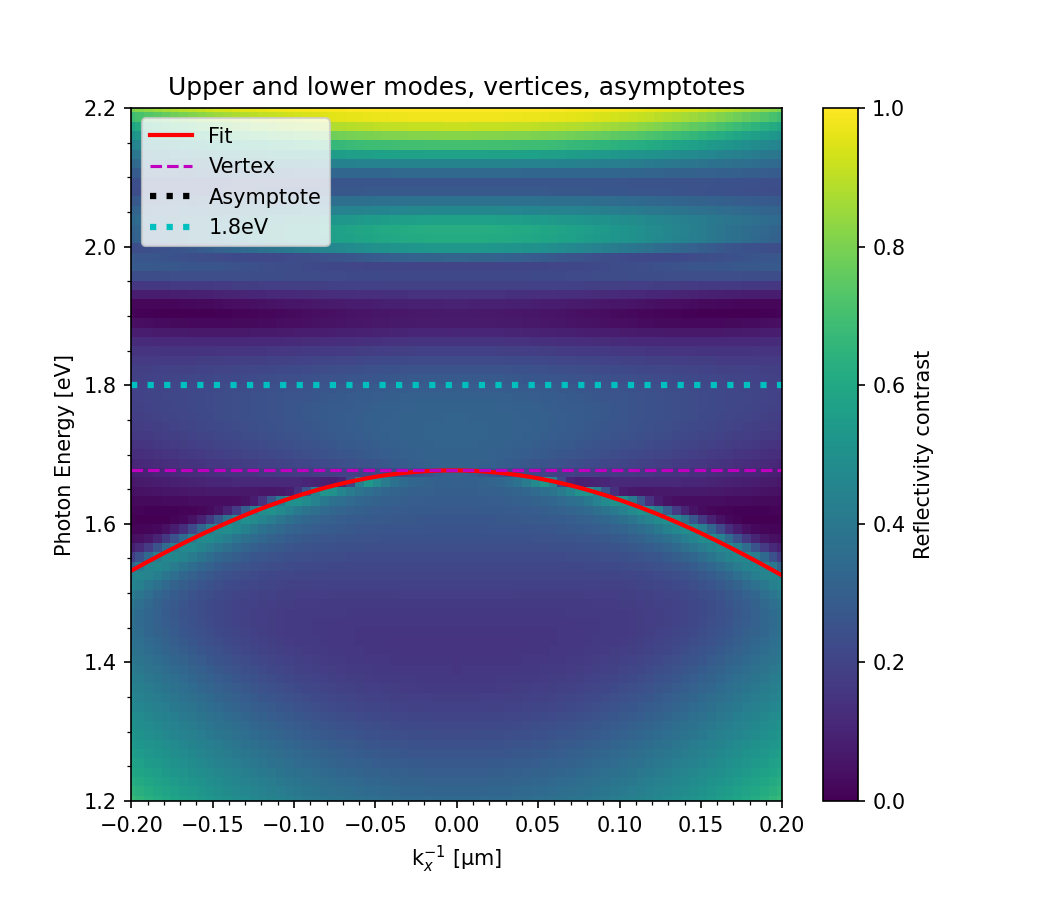
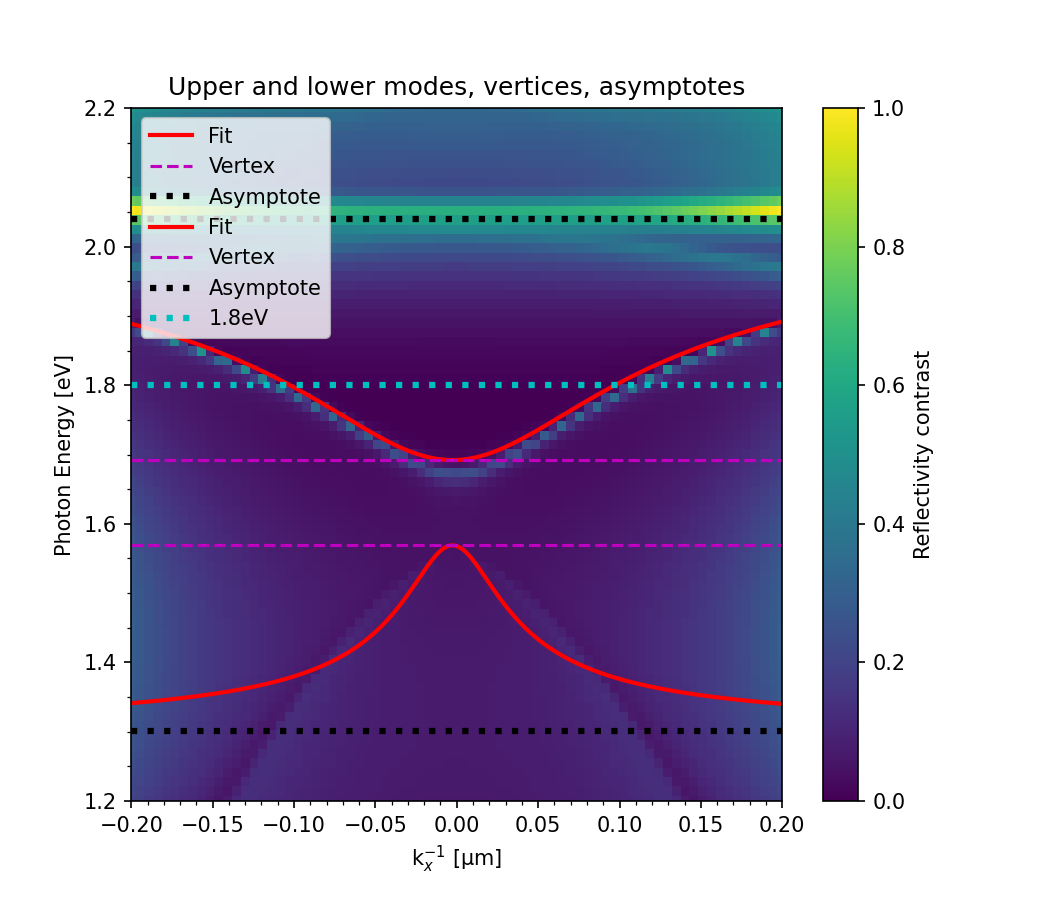
Mode detection - 19/11

diff --git a/mode_detection.py b/mode_detection.py
@@ -23,7 +23,7 @@ N=75
 
 cwd = Path(os.getcwd())
 
-results_top_dir = cwd / "WS2_Grating_Eamonn" / "Results" / 'WS₂, SiO₂, Si 4'
+results_top_dir = cwd / "WS2_Grating_Eamonn" / "Results" / 'WS₂, SiO₂, Si'
 
 # results_dir = cwd / "WS2_Grating_Eamonn" / "Results" / 'WS₂, SiO₂, Si' / 't=18.0nm Λ=500nm FF=0.84 N=75' / 'data'
 # results_dir = cwd / "WS2_Grating_Eamonn" / "Results" / 'WS₂, SiO₂, Si 4' / 't=60.0nm Λ=350nm FF=0.55 N=75' / 'data'
@@ -37,15 +37,17 @@ savepath.mkdir(exist_ok=True, parents=True)
 
 
 sims = sorted(os.listdir(results_top_dir))
-
-sims.remove('summary.json')
+if 'summary.json' in sims:
+    sims.remove('summary.json')
 print(len(sims))
 
-sims = [Path(cwd / "WS2_Grating_Eamonn" / "Results" / 'WS₂, SiO₂, Si' / 't=18.0nm Λ=500nm FF=0.84 N=75')]
+# sims = [Path(cwd / "WS2_Grating_Eamonn" / "Results" / 'WS₂, SiO₂, Si 4' / 't=20.0nm Λ=550nm FF=0.55 N=75')]
 
 def fit_simulation(results_dir):
-
-    files = sorted(os.listdir(results_dir))
+    try:
+        files = sorted(os.listdir(results_dir))
+    except:
+        return 0
     file_R = results_dir / files[4]
     file_R_sub = results_dir / files[5]
     print(file_R)
@@ -81,7 +83,7 @@ def fit_simulation(results_dir):
     # cbar =fig.colorbar(pcm,location='right')
     # cbar.set_label('Reflectivity contrast')
     # plt.minorticks_on()
-
+    # plt.show()
 
 
 
@@ -136,8 +138,13 @@ def fit_simulation(results_dir):
         # Create a mask to exclude pixels within 5% of the central position
         mask = (np.arange(N) < central_position - exclude_range) | (np.arange(N) > central_position + exclude_range)
 
-        # Apply the mask to the row
-        filtered_row = row[mask]
+        try:
+            # Apply the mask to the row
+            filtered_row = row[mask]
+        except IndexError:
+            print("WRONG N - DEBUG")
+            time.sleep(5)
+            return 0
 
         # Compute the value for this row and append to the result
         if len(filtered_row) > 0:  # Make sure there are still data points after masking
@@ -153,12 +160,13 @@ def fit_simulation(results_dir):
     pd_line_y_max = pd.Series(line_y_max)
 
     # Apply a 3-point moving average to smooth the data
-    pd_line_y_max_plottinged = pd_line_y_max.rolling(window=6, center=True).mean()
+    series_ymax_mavg = pd_line_y_max.rolling(window=6, center=True).mean()
 
 
     # Use the Series index as x values
-    y = pd_line_y_max_plottinged
-    x = pd_line_y_max_plottinged.index
+    y = series_ymax_mavg
+    x = series_ymax_mavg.index
+    y = y.fillna(0)
 
     y_min, y_max = y.min(), y.max()
     # Define thresholds
@@ -182,8 +190,9 @@ def fit_simulation(results_dir):
 
     print(f"TROUGHS: {troughs}")
     troughs = np.array([int(t) for t in troughs if y[t] <= trough_threshold])  # Keep only valid troughs
-    troughs = np.append(troughs, N-1)
+    troughs = np.append(troughs, N-2)
     print(f"TROUGHS: {troughs}")
+    # print(y[-1:])
 
     print(type(troughs), type(peaks))
     # peaks_df = pd.Series(peaks)
@@ -228,22 +237,22 @@ def fit_simulation(results_dir):
 
 
     # Step 5: Plot the results
-    # plt.figure(figsize=(12, 6))
-    # plt.plot(x, y, label='Data', color='lightgray')
-    # plt.scatter(x[peaks], y[peaks], color='red', label='Maxima')
-    # plt.scatter(x[minima_indices], y[minima_indices], color='blue', label='Minima', zorder=5)
-    # plt.scatter(x[max_peak[0]], y[max_peak[0]], color='green', label='Peak', s=100, zorder=10)
-    # plt.scatter([x[min_troughs[0]], x[min_troughs[1]]], [y[min_troughs[0]], y[min_troughs[1]]], color='purple', label='Neighbouring troughs', s=100, zorder=10)
-    # plt.axhline(y=peak_threshold)
-    # plt.axhline(y=trough_threshold)
-    # plt.title('Identifying Minima near the Tallest Distinct Peak')
-    # plt.xlabel('x')
-    # plt.ylabel('y')
-    # plt.legend()
-    # plt.grid()
-    #
-    # plt.savefig(savepath / 'peaks.png', dpi=150)
-    # plt.show()
+    plt.figure(figsize=(12, 6))
+    plt.plot(x, y, label='Data', color='lightgray')
+    plt.scatter(x[peaks], y[peaks], color='red', label='Maxima')
+    plt.scatter(x[minima_indices], y[minima_indices], color='blue', label='Minima', zorder=5)
+    plt.scatter(x[max_peak[0]], y[max_peak[0]], color='green', label='Peak', s=100, zorder=10)
+    plt.scatter([x[min_troughs[0]], x[min_troughs[1]]], [y[min_troughs[0]], y[min_troughs[1]]], color='purple', label='Neighbouring troughs', s=100, zorder=10)
+    plt.axhline(y=peak_threshold)
+    plt.axhline(y=trough_threshold)
+    plt.title('Identifying Minima near the Tallest Distinct Peak')
+    plt.xlabel('x')
+    plt.ylabel('y')
+    plt.legend()
+    plt.grid()
+
+    plt.savefig(savepath / 'peaks.png', dpi=150)
+    plt.show()
 
 
 
@@ -536,15 +545,15 @@ def fit_simulation(results_dir):
 
 
 
-    for i in [0,1]:
-        try:
-            plt.axhline(y=vertices[i], color='m', linestyle='--', label='Vertex')
-
-            plt.axhline(y=asyms[i], color='k', linestyle=':', label='Asymptote', linewidth=3)
-
-            plt.plot(k_scan_line, fitted_to_graph(fits[i]), 'r-', linewidth=2, label='Fit')
-        except:
-            continue
+    # for i in [0,1]:
+    #     try:
+    #         plt.axhline(y=vertices[i], color='m', linestyle='--', label='Vertex')
+    #
+    #         plt.axhline(y=asyms[i], color='k', linestyle=':', label='Asymptote', linewidth=3)
+    #
+    #         plt.plot(k_scan_line, fitted_to_graph(fits[i]), 'r-', linewidth=2, label='Fit')
+    #     except:
+    #         continue
 
 
 
